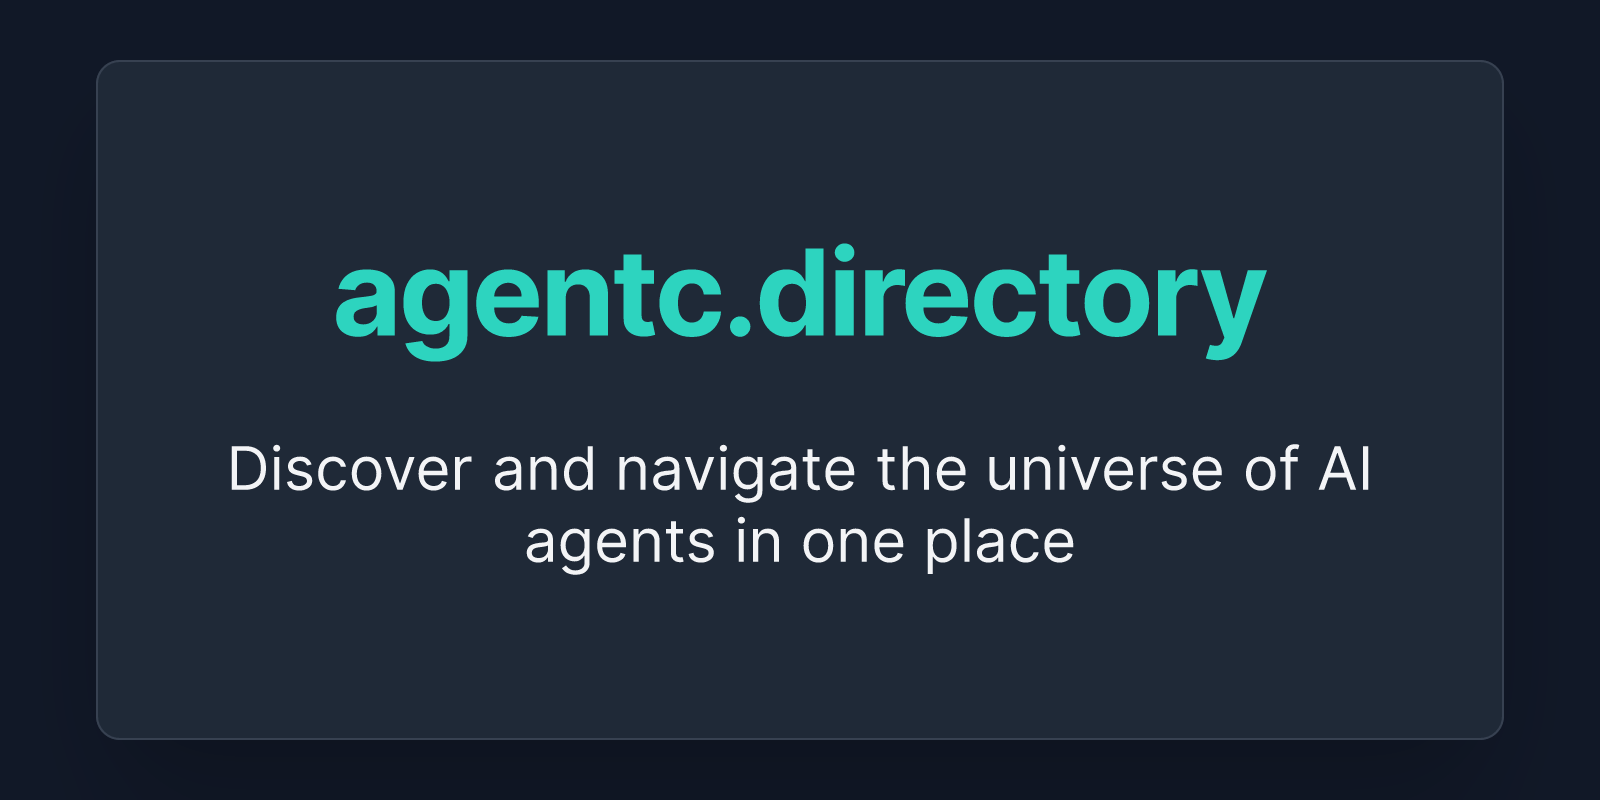
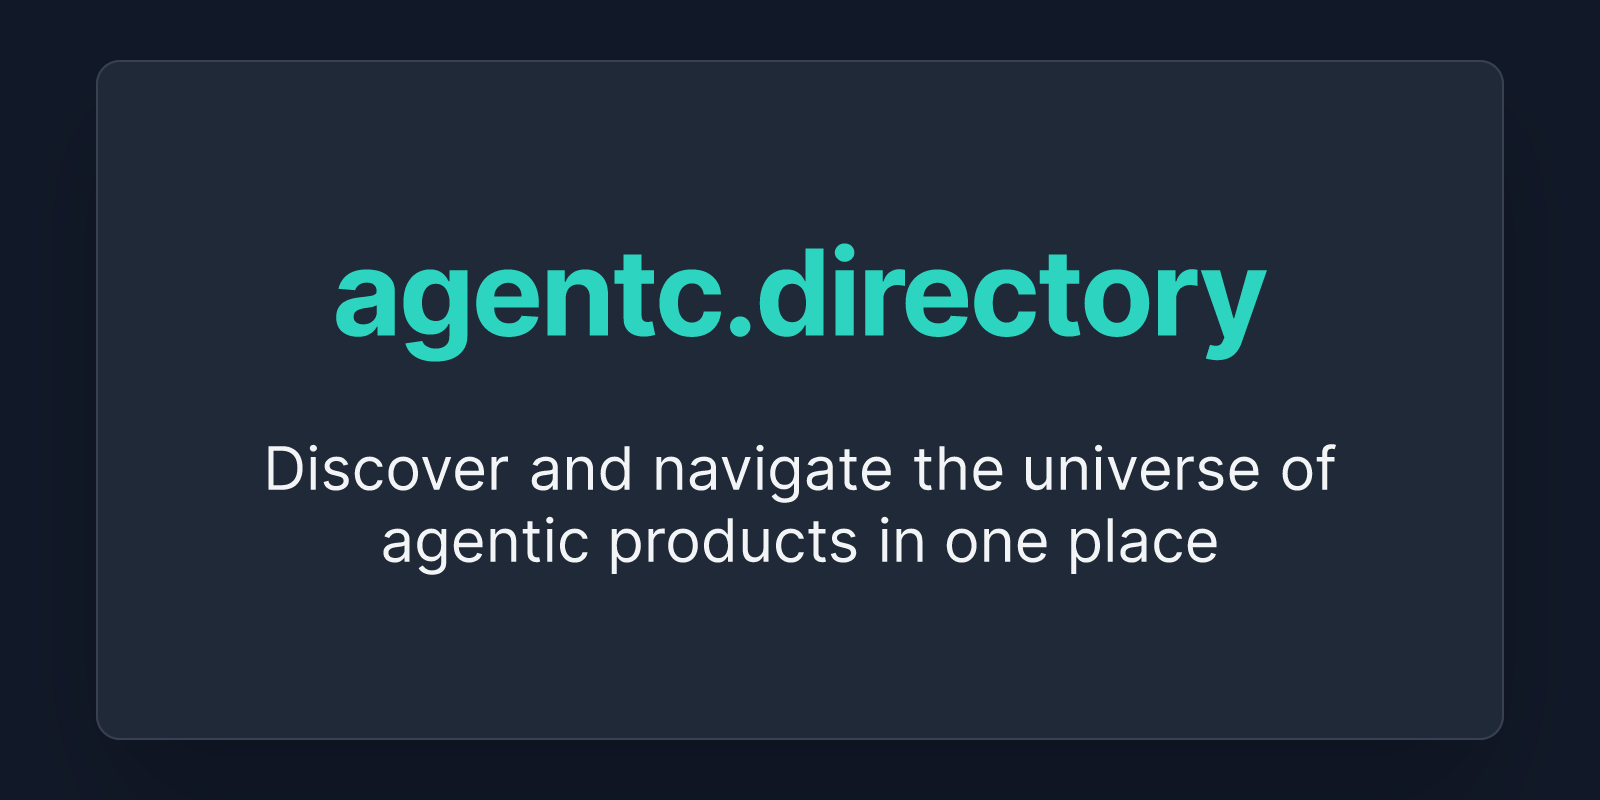
docs(readme): comprehensive update with detailed project overview

Changed region(s): [[0.125, 0.5625, 0.875, 0.625], [0.2188, 0.6562, 0.7812, 0.7188]]

diff --git a/src/app/(pages)/layout.tsx b/src/app/(pages)/layout.tsx
@@ -1,5 +1,7 @@
 import { ActiveLink } from "@/components/active-link";
 import { ThemeToggle } from "@/components/theme-toggle";
+import { buttonVariants } from "@/components/ui/button";
+import { GithubIcon } from "lucide-react";
 import Link from "next/link";
 
 export default function Layout({ children }: { children: React.ReactNode }) {
@@ -19,6 +21,13 @@ export default function Layout({ children }: { children: React.ReactNode }) {
         </div>
         <div className="flex items-center gap-6">
           <nav className="flex items-center gap-6">
+            <Link
+              href="https://github.com/noelrohi/agentc"
+              className={buttonVariants({ variant: "ghost", size: "icon" })}
+              target="_blank"
+            >
+              <GithubIcon className="size-[1.2rem]" />
+            </Link>
             <ThemeToggle />
           </nav>
         </div>

diff --git a/src/app/layout.tsx b/src/app/layout.tsx
@@ -18,7 +18,8 @@ const fontMono = JetBrains_Mono({
 
 export const metadata: Metadata = {
   title: "agentc.directory",
-  description: "Discover and navigate the universe of AI agents in one place",
+  description:
+    "Discover and navigate the universe of agentic products in one place",
 };
 
 export default function RootLayout({

diff --git a/README.md b/README.md
@@ -1,31 +1,38 @@
-# AI-Powered Directory
+# agentc.directory
 
-A directory of AI tools and agents with AI-powered search capabilities.
+[Website](https://agentc.directory) | [llms.txt](https://agentc.directory/llms.txt) | [Run locally](#getting-started)
+
+agentc.directory is a comprehensive directory of AI tools and agents with AI-powered search capabilities.
 
 ## Features
 
-- **AI-Powered Search**: Convert natural language queries into SQL queries
-- **Responsive UI**: Built with Next.js, Shadcn UI, and Tailwind CSS
-- **Database**: Turso (SQLite) with Drizzle ORM
-
-## AI Search
-
-The application includes an advanced AI search feature that converts natural language queries into SQL queries. This allows users to search for items using everyday language instead of specific keywords.
-
-### Example Queries
-
-- "Show me all free tools"
-- "Find new agents for writing"
-- "Search for productivity tools with video demos"
-- "What are the freemium options for content creation?"
+- **AI-Powered Search**: Convert natural language queries into SQL queries.
+- **Advanced Filtering**: Find tools by category, pricing, and more.
+- **Responsive UI**: Built with Next.js, Shadcn UI, and Tailwind CSS.
+- **Database**: Turso (SQLite) with Drizzle ORM for robust data storage.
+- **Video Analysis**: Process YouTube video transcripts to extract key information.
+- **Website Data Extraction**: Intelligent web scraping with structured output.
+- **Real-time Updates**: Stay current with the latest AI tools and agents.
+- **Detailed Profiles**: Comprehensive information about each tool.
+- **Modern Design**: Clean, accessible interface for all devices.
+- **Type Safety**: Built with TypeScript for robust code.
+- **Feature Flagging**: Control features via environment variables.
+- **Zero Client-side API Keys**: Security-first approach to API usage.
+- **Privacy Friendly**: No unnecessary tracking or data collection.
 
 ## Getting Started
 
 1. Clone the repository
+   ```bash
+   git clone https://github.com/yourusername/agentc.git
+   cd agentc
+   ```
+
 2. Install dependencies:
    ```bash
-   npm install
+   pnpm install
    ```
+
 3. Copy `.env.example` to `.env.local` and fill in the required values:
    ```
    DATABASE_URL=libsql://your-turso-database.turso.io
@@ -33,10 +40,28 @@ The application includes an advanced AI search feature that converts natural lan
    OPENROUTER_API_KEY=your-openrouter-api-key
    FIRECRAWL_API_KEY=your-firecrawl-api-key
    ```
-4. Run the development server:
+
+4. Set up the database:
    ```bash
-   npm run dev
+   pnpm db push
    ```
+
+5. Run the development server:
+   ```bash
+   pnpm dev
+   ```
+
+## Tech Stack
+
+- **Framework**: Next.js 15 (App Router)
+- **UI Components**: Shadcn UI, Radix UI
+- **Styling**: Tailwind CSS
+- **Database**: Turso (SQLite)
+- **ORM**: Drizzle ORM
+- **Forms**: React Hook Form + Zod
+- **AI Integration**: OpenRouter (Gemini)
+- **Web Scraping**: Firecrawl
+- **Language**: TypeScript
 
 ## Environment Variables
 
@@ -46,15 +71,6 @@ The application includes an advanced AI search feature that converts natural lan
 - `FIRECRAWL_API_KEY`: Firecrawl API key for web scraping (optional)
 - `EDIT_MODE`: Enable editing mode (boolean)
 - `NEW_MODE`: Enable new item creation mode (boolean)
-
-## Tech Stack
-
-- **Framework**: Next.js App Router
-- **UI**: React, Shadcn UI, Tailwind CSS
-- **Database**: Turso (SQLite)
-- **ORM**: Drizzle
-- **AI**: OpenRouter (Gemini)
-- **TypeScript**: For type safety
 
 ## How AI Search Works
 
@@ -66,76 +82,6 @@ The application includes an advanced AI search feature that converts natural lan
 
 The AI search feature falls back to client-side filtering if the API request fails.
 
-## 🚀 Key Features
+## License
 
-- 🔍 Search agents by name, description, or tags
-- 🤖 AI-powered natural language search
-- 🌐 Responsive design for all devices
-- 🎯 Filter agents by category, pricing model, and more
-- 🔄 Real-time updates with server actions
-- 🎬 Video demos for agents
-- 📊 Detailed agent profiles with features and benefits
-
-## 🧠 AI Processing
-
-The directory uses advanced AI services to automatically process and generate high-quality content:
-
-1. **Website Data Extraction** (via Firecrawl)
-   - Intelligent web scraping with structured output
-   - Extracts name, description, and metadata
-   - Identifies pricing model (free/paid/freemium)
-   - Captures favicons and icons for avatars
-
-2. **Video Analysis** (via OpenRouter/Gemini)
-   - Processes YouTube video transcripts
-   - Maps features to specific timestamps
-   - Identifies target audience segments
-   - Extracts key benefits and capabilities
-   - Uses Gemini 2.0 Flash for fast processing
-
-3. **Data Structuring**
-   - Validates data through Zod schemas
-   - Ensures consistent formatting
-   - Maintains type safety
-   - Organizes content for optimal search
-
-## 🛠 Tech Stack
-
-- **Framework**: Next.js 15 (App Router)
-- **Database**: Turso (SQLite)
-- **ORM**: Drizzle ORM
-- **UI**: Tailwind CSS + shadcn/ui
-- **Forms**: React Hook Form + Zod
-
-## 🚦 Quick Start
-
-1. **Prerequisites**
-   - Node.js 18+
-   - pnpm (recommended)
-   - Turso database
-   - Required API keys
-
-2. **Setup**
-   ```bash
-   git clone https://github.com/noelrohi/agentc.git
-   cd agentc
-   pnpm install
-   cp .env.example .env.local
-   ```
-
-3. **Run**
-   ```bash
-   pnpm db push
-   pnpm dev
-   ```
-
-## 🎛 Feature Flags
-
-Control features via environment variables:
-```env
-EDIT_MODE=true  # Enable agent editing
-NEW_MODE=true   # Enable new agent creation
-```
-
-## 📜 License
-[MIT License](LICENSE.md)
+[MIT License](LICENSE)
